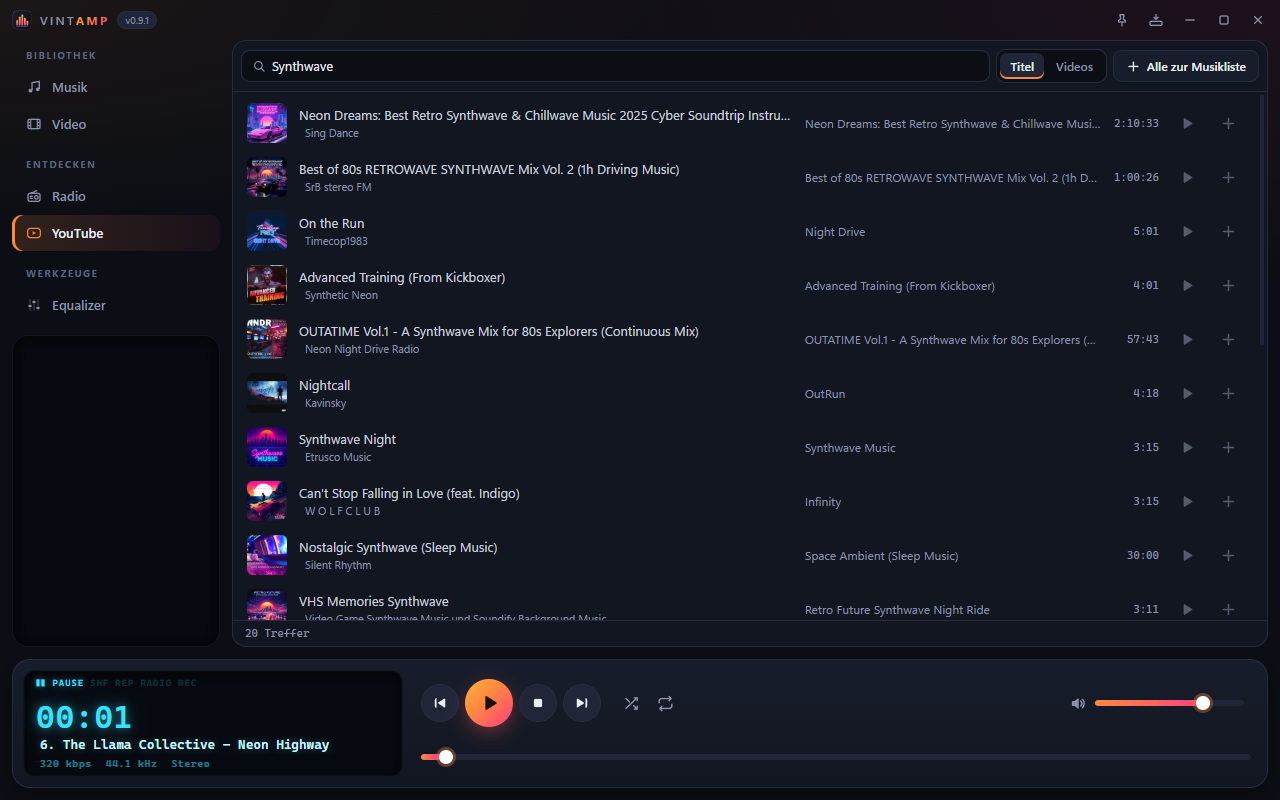
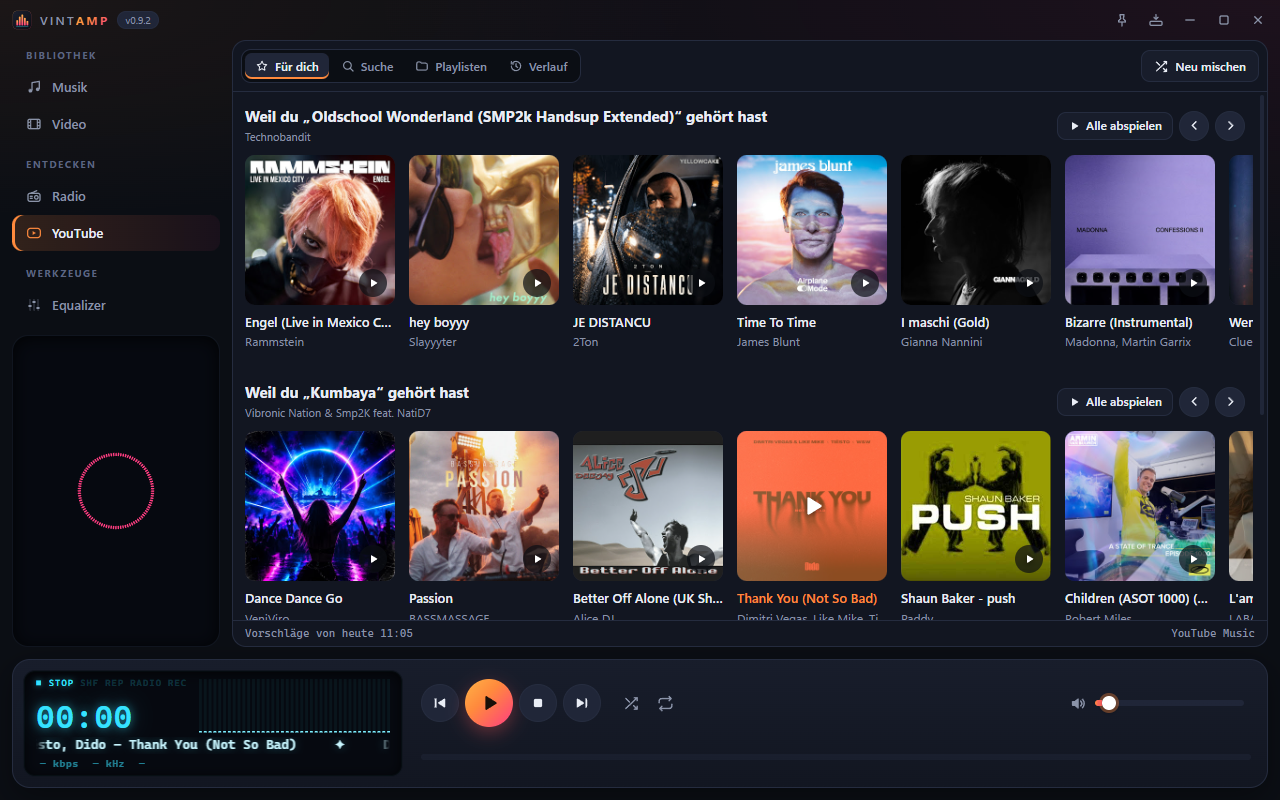
Docs: YouTube als eigener Bereich (v0.9.2)

diff --git a/README.md b/README.md
@@ -29,9 +29,9 @@ MIDI mit Spur-Ansicht, 10-Band-Equalizer, 16 Visualizer und Mini-Modus – im mo
 
 <p><img src="docs/tags.png" alt="Vintamp – Tag-Editor" width="790"></p>
 
-**YouTube Music** – suchen, abspielen, in die Musikliste übernehmen:
+**YouTube Music** – Vorschläge „Für dich“, Suche, eigene Playlisten und Verlauf:
 
-<p><img src="docs/youtube.png" alt="Vintamp – YouTube-Music-Suche" width="790"></p>
+<p><img src="docs/youtube.png" alt="Vintamp – YouTube Music, Vorschläge für dich" width="790"></p>
 
 **Radio-Aufnahme** – ein Klick auf ●, die Sendung landet verlustfrei in einer Datei; alle Aufnahmen im eigenen Bereich:
 
@@ -103,8 +103,18 @@ MIDI mit Spur-Ansicht, 10-Band-Equalizer, 16 Visualizer und Mini-Modus – im mo
 - Bleibt beim nächsten Start erhalten
 
 **YouTube Music**
-- Eigener Bereich „YouTube“: Titel oder Videos suchen, mit Vorschaubild, Interpret, Album und Länge
-- Doppelklick spielt ab, „+“ hängt den Titel an die Musikliste (auch alle Treffer auf einmal)
+- Eigener Bereich „YouTube“ mit vier Ansichten: **Für dich**, **Suche**, **Playlisten**, **Verlauf** – unabhängig
+  von der Musikliste
+- Suche zeigt Titel (Albumfassungen) und Videos (Live, Remixe, Cover …) gemeinsam, mit Vorschaubild, Interpret,
+  Album und Länge
+- Klick auf Vorschaubild oder Titel spielt ab; danach geht es automatisch mit dem nächsten Treffer weiter
+- Eigene Playlisten als Ordner („Rock“, „Trance“, „Pop“ …): mit „+“ bei jedem Titel einsortieren, Reihenfolge per
+  Ziehen ändern, abspielen oder zufällig abspielen, umbenennen, löschen
+- **Für dich:** passend zu gehörten Titeln und deinen Playlisten schlägt Vintamp ähnliche Musik vor
+  („Weil du … gehört hast“), „Neu mischen“ holt neue Vorschläge
+- Ist eine Liste zu Ende, läuft es wie bei YouTube mit ähnlichen Titeln weiter
+- Verlauf der gehörten Titel; „Ähnliche Titel zeigen“ und „Link kopieren“ im Rechtsklick-Menü; Titel lassen sich
+  weiterhin auch an die Musikliste hängen
 - Nichts einzurichten: einfach suchen und abspielen. Das freie Hilfsprogramm yt-dlp, das YouTube-Adressen in
   einen Stream übersetzt, holt sich Vintamp beim ersten YouTube-Titel selbst (ca. 18 MB, einmalig) und hält es
   im Hintergrund aktuell

diff --git a/README.en.md b/README.en.md
@@ -31,9 +31,9 @@ MIDI with a track view, 10-band equalizer, 16 visualizers and a mini mode – in
 
 <p><img src="docs/tags.png" alt="Vintamp – tag editor" width="790"></p>
 
-**YouTube Music** – search, play, add to the music list:
+**YouTube Music** – “For you” suggestions, search, your own playlists and history:
 
-<p><img src="docs/youtube.png" alt="Vintamp – YouTube Music search" width="790"></p>
+<p><img src="docs/youtube.png" alt="Vintamp – YouTube Music, suggestions for you" width="790"></p>
 
 **Radio recording** – one click on ●, the broadcast is saved losslessly in one file; all recordings in their own section:
 
@@ -105,8 +105,18 @@ MIDI with a track view, 10-band equalizer, 16 visualizers and a mini mode – in
 - Kept for the next start
 
 **YouTube Music**
-- Its own “YouTube” section: search songs or videos, with thumbnail, artist, album and length
-- Double-click plays, “+” appends the song to the music list (also all results at once)
+- Its own “YouTube” section with four views: **For you**, **Search**, **Playlists**, **History** – separate
+  from the music list
+- Search shows songs (album versions) and videos (live, remixes, covers …) together, with thumbnail, artist,
+  album and length
+- Click the picture or title to play; it then moves on to the next result automatically
+- Your own playlists as folders (“Rock”, “Trance”, “Pop” …): sort songs in with “+”, reorder by dragging, play or
+  shuffle, rename, delete
+- **For you:** based on the songs you play and your playlists, Vintamp suggests similar music
+  (“Because you played …”), “Shuffle” fetches new suggestions
+- When a list ends, playback continues with similar songs, like on YouTube
+- History of played songs; “Show similar songs” and “Copy link” in the right-click menu; songs can still be
+  added to the music list too
 - Nothing to set up: just search and play. The free helper yt-dlp, which translates YouTube addresses into a
   stream, is fetched by Vintamp itself with the first YouTube track (about 18 MB, once) and kept up to date
   in the background
